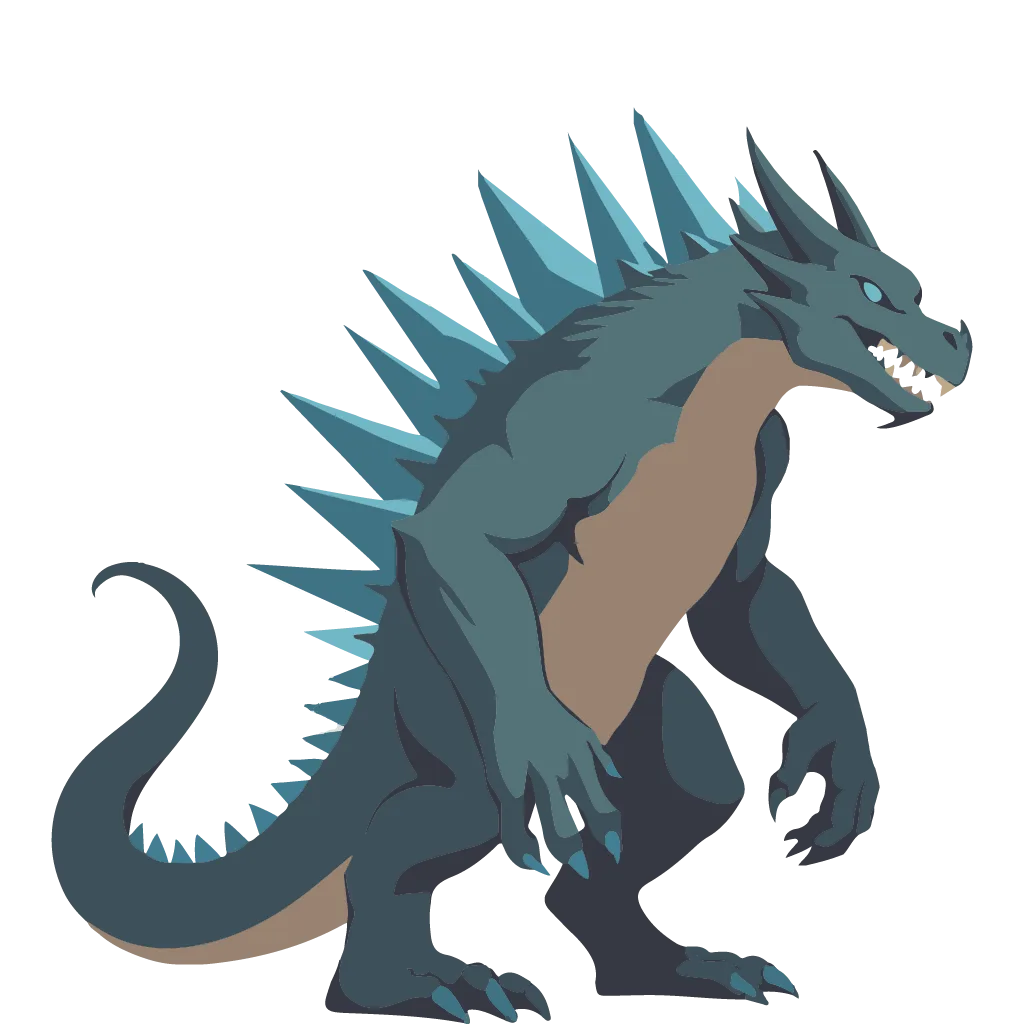
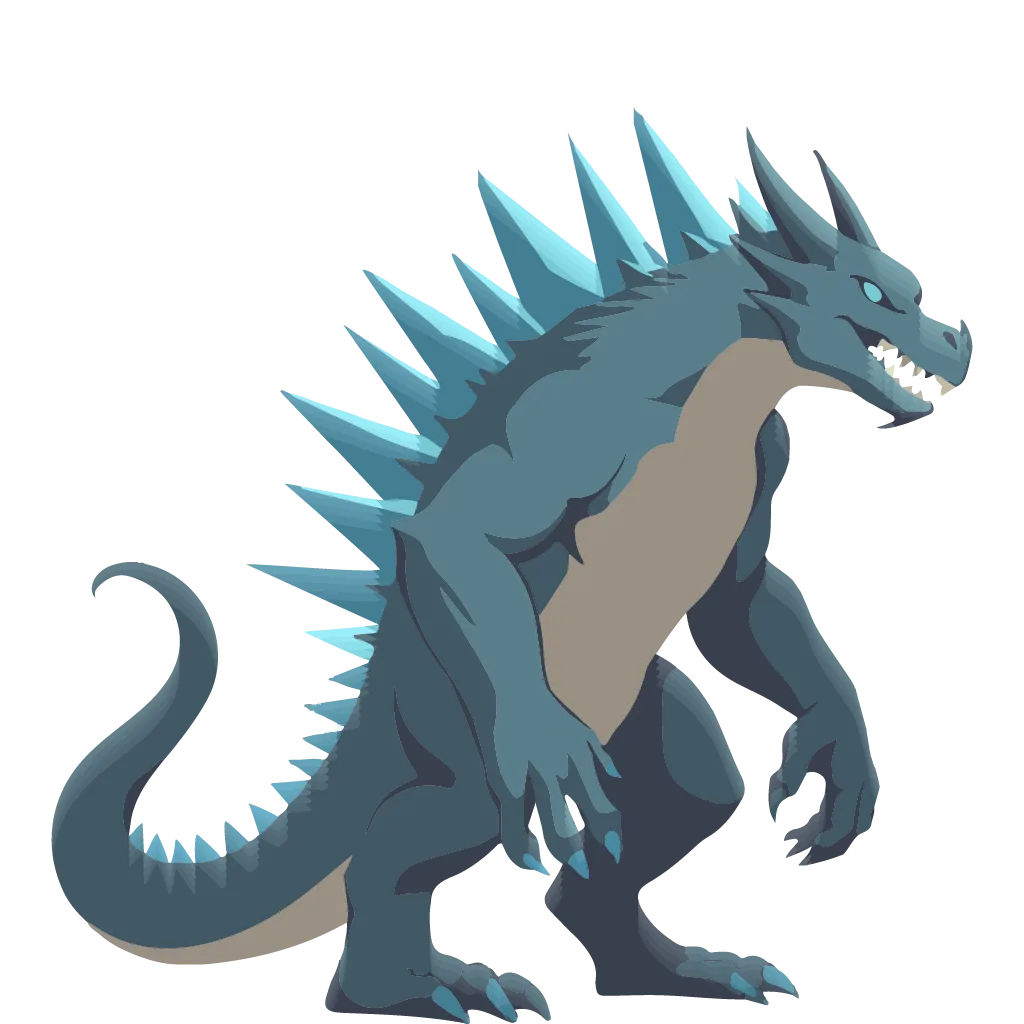
Foes and dragons lit as the game lights them, without drop shadows
sync-assets now bakes each figure's scene light from the game's
ENEMY_LIGHT and DRAGON_LIGHT (ui/model/art.gd), with its creature
shader's sums: the fill that pulls a figure toward its scene's colours,
and the rim of light along the edges facing the light's direction. Foes
on their backdrops and dragons in their lairs no longer carry a drop
shadow.

diff --git a/components/sections/Road.tsx b/components/sections/Road.tsx
@@ -266,7 +266,7 @@ function Highlight({ id, focus }: { id: string; focus: Focus }) {
     stage = (
       <>
         <Image src={e.backdrop.src} width={e.backdrop.width} height={e.backdrop.height} alt="" sizes="(min-width: 768px) 560px, 88vw" className="absolute inset-0 h-full w-full object-cover opacity-85" />
-        <Image src={e.art.src} width={e.art.width} height={e.art.height} alt={e.alt} sizes="(min-width: 768px) 400px, 60vw" className="absolute inset-x-0 bottom-0 mx-auto h-[94%] w-auto drop-shadow-[0_14px_18px_var(--well)]" />
+        <Image src={e.art.src} width={e.art.width} height={e.art.height} alt={e.alt} sizes="(min-width: 768px) 400px, 60vw" className="absolute inset-x-0 bottom-0 mx-auto h-[94%] w-auto" />
       </>
     );
     name = e.name;
@@ -306,7 +306,7 @@ function Highlight({ id, focus }: { id: string; focus: Focus }) {
     stage = (
       <>
         <Image src={d.lair.src} width={d.lair.width} height={d.lair.height} alt="" sizes="(min-width: 768px) 560px, 88vw" className="absolute inset-0 h-full w-full object-cover" />
-        <Image src={d.art.src} width={d.art.width} height={d.art.height} alt={d.alt} sizes="(min-width: 768px) 460px, 70vw" className="absolute inset-x-0 bottom-0 mx-auto h-full w-auto drop-shadow-[0_14px_18px_var(--well)]" />
+        <Image src={d.art.src} width={d.art.width} height={d.art.height} alt={d.alt} sizes="(min-width: 768px) 460px, 70vw" className="absolute inset-x-0 bottom-0 mx-auto h-full w-auto" />
       </>
     );
     name = d.name;

diff --git a/components/sections/Dragons.tsx b/components/sections/Dragons.tsx
@@ -52,7 +52,7 @@ export default function Dragons() {
                       height={a.art.height}
                       alt={d.alt}
                       sizes="(min-width: 1024px) 300px, (min-width: 640px) 50vw, 100vw"
-                      className="absolute inset-x-0 bottom-[2%] mx-auto w-[108%] max-w-none -translate-x-[4%] drop-shadow-[0_16px_18px_var(--well)]"
+                      className="absolute inset-x-0 bottom-[2%] mx-auto w-[108%] max-w-none -translate-x-[4%]"
                     />
                   </div>
                   <span

diff --git a/specs/001-marketing-site/tasks.md b/specs/001-marketing-site/tasks.md
@@ -371,3 +371,13 @@ Verification:
 - Every stat value sits in a fixed two-character slot with tabular figures, so a chip's width doesn't depend on its value.
 - The highlight's name and stats sit in one area (`.road-details`) whose height is fixed per breakpoint: 10.5rem below 640 px, 7.5rem from 640, 11rem from 768 and 8.5rem from 1024. Each is the tallest content measured at the narrowest width of its range, rounded up.
 - Verified at 12 widths from 320 to 1440 px by picking every foe, road and dragon in every row: one highlight height per row and no change in any row's height, and the content never overflows its area. Card and highlight still fit on one screen together, and Lighthouse is still 100/100/100/100 with CLS 0.
+
+### Revision: the game's scene lighting, no drop shadows on figures (2026-11-02, from developer feedback)
+
+- **No drop shadows** on foes standing on their backdrops, or on dragons standing in their lairs (the highlight and the dragons section). The hero dragon keeps its shadow, since it steps out over the card's edge.
+- **The game's own scene lighting is baked into the cut-outs** by `sync-assets`:
+  - the values are read from `ENEMY_LIGHT` (16 foes) and `DRAGON_LIGHT` (4 dragons) in the game's `ui/model/art.gd`
+  - the sums are those of its creature shader (`ui/fx/shaders/creature_idle.gdshader`): the colours are pulled toward the scene's fill while keeping their lightness, then a rim of light is added along the edges facing `rim_from`, `rim_width` wide, in four steps
+  - this runs on the full-size art before resizing
+  - the game's ink outline is not applied
+- **Verified**: lint and build pass, a sync rerun changes nothing, Lighthouse is 100/100/100/100, and before-and-after composites match how the game lights each foe.
